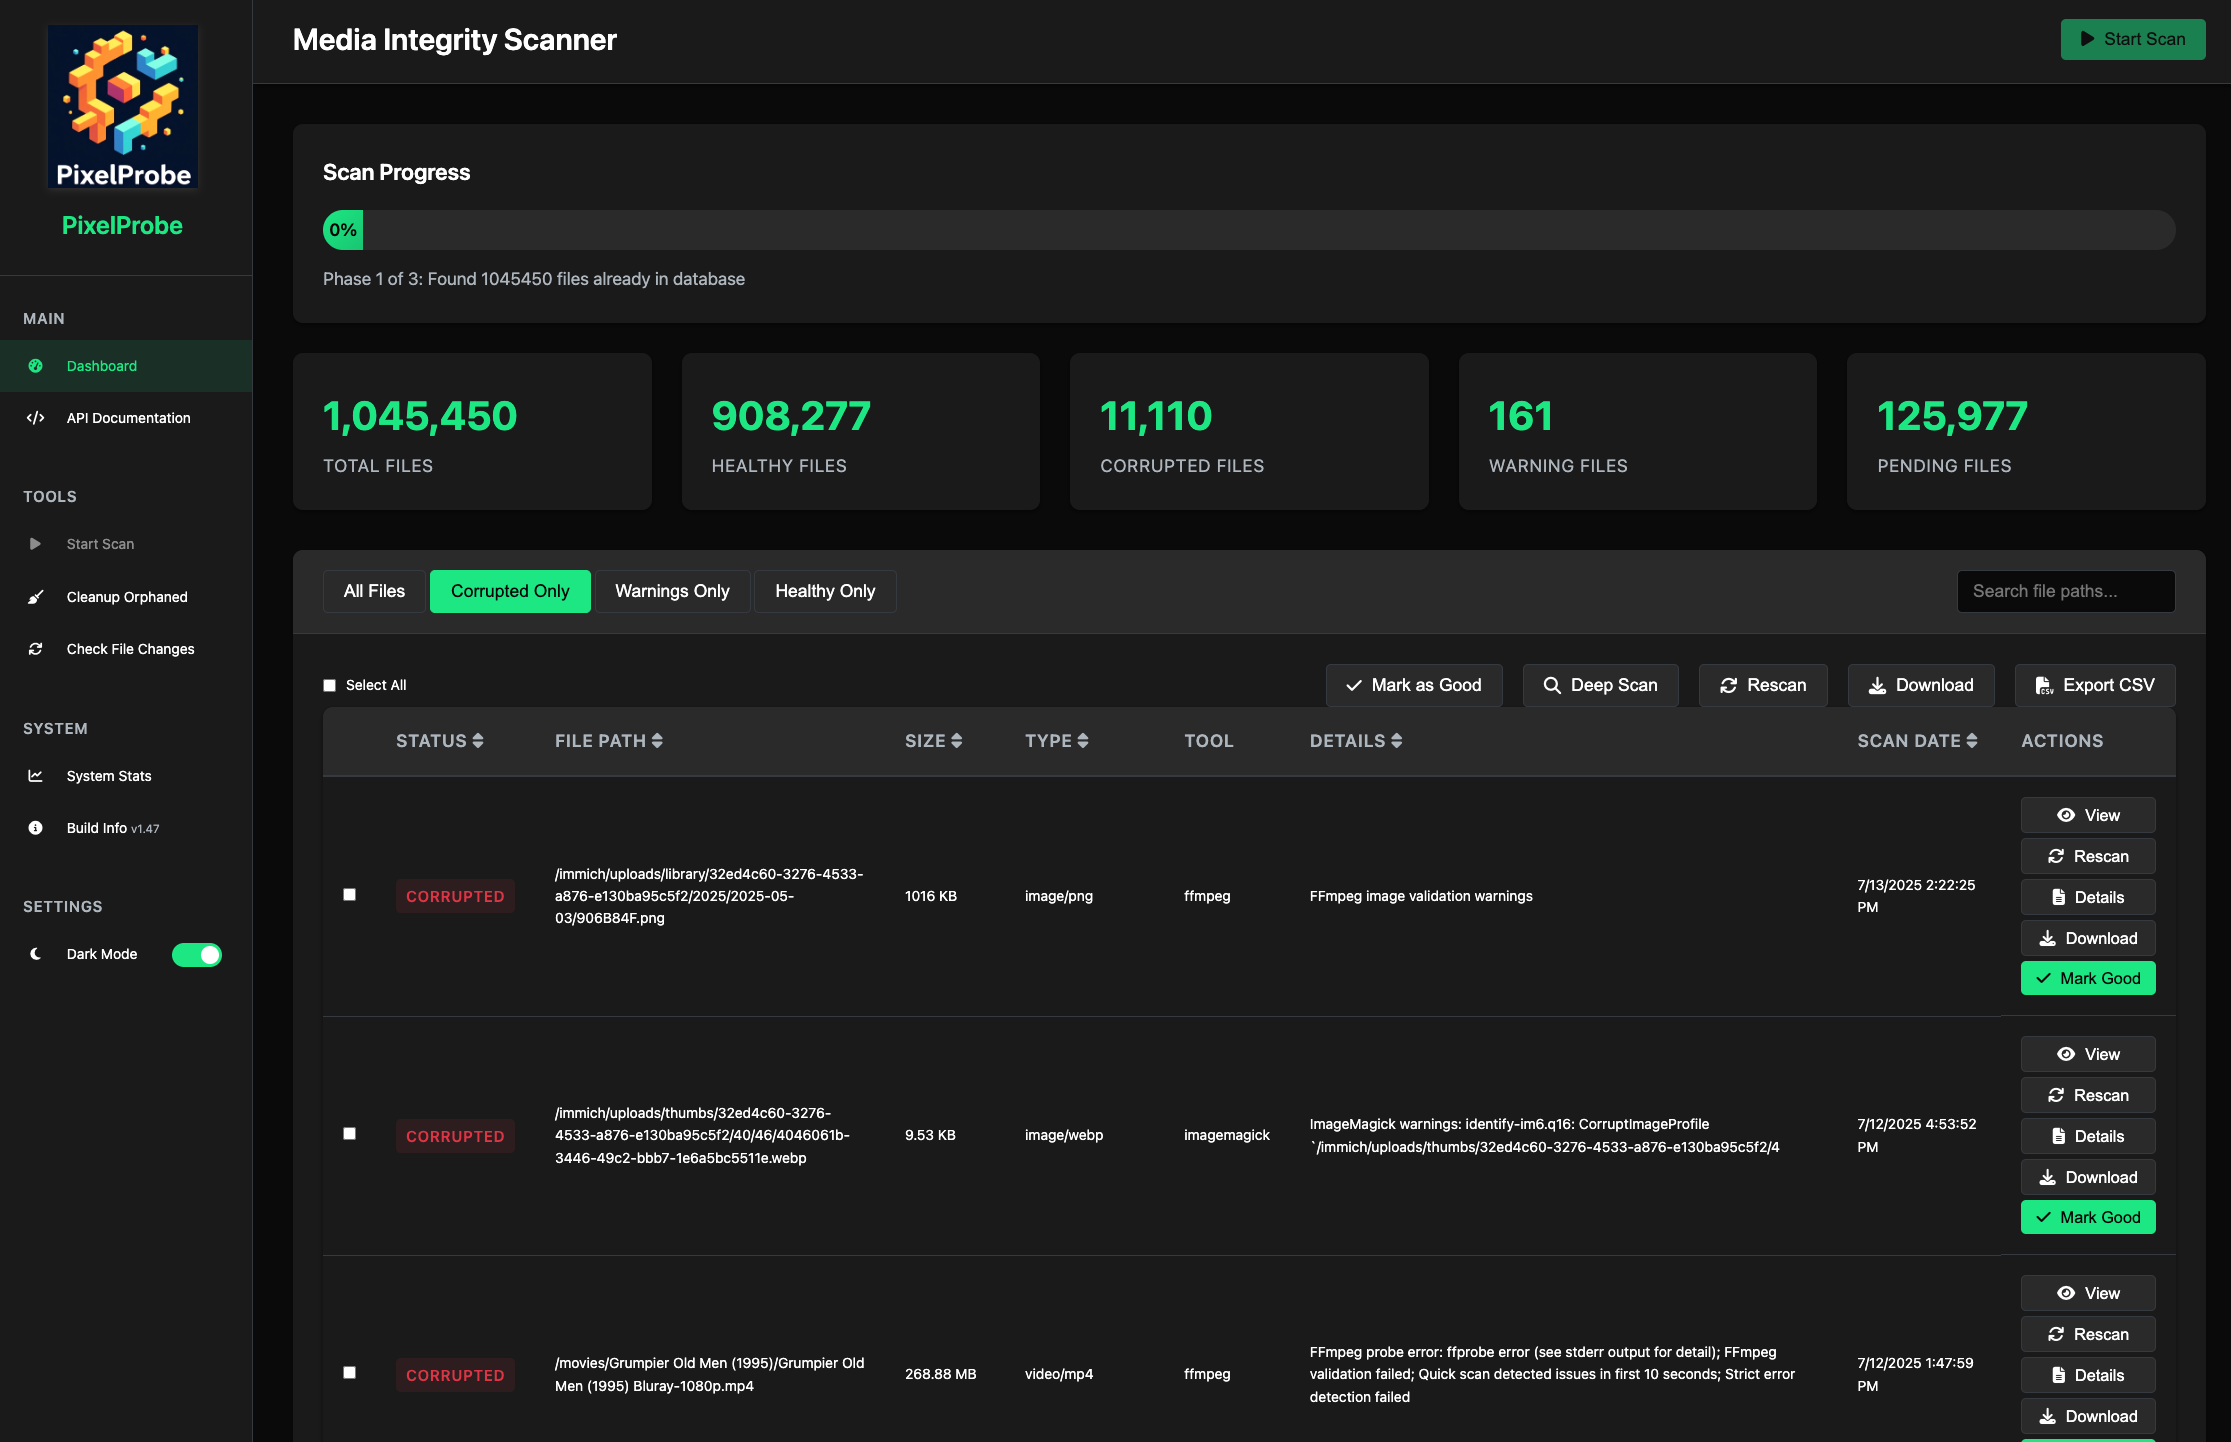
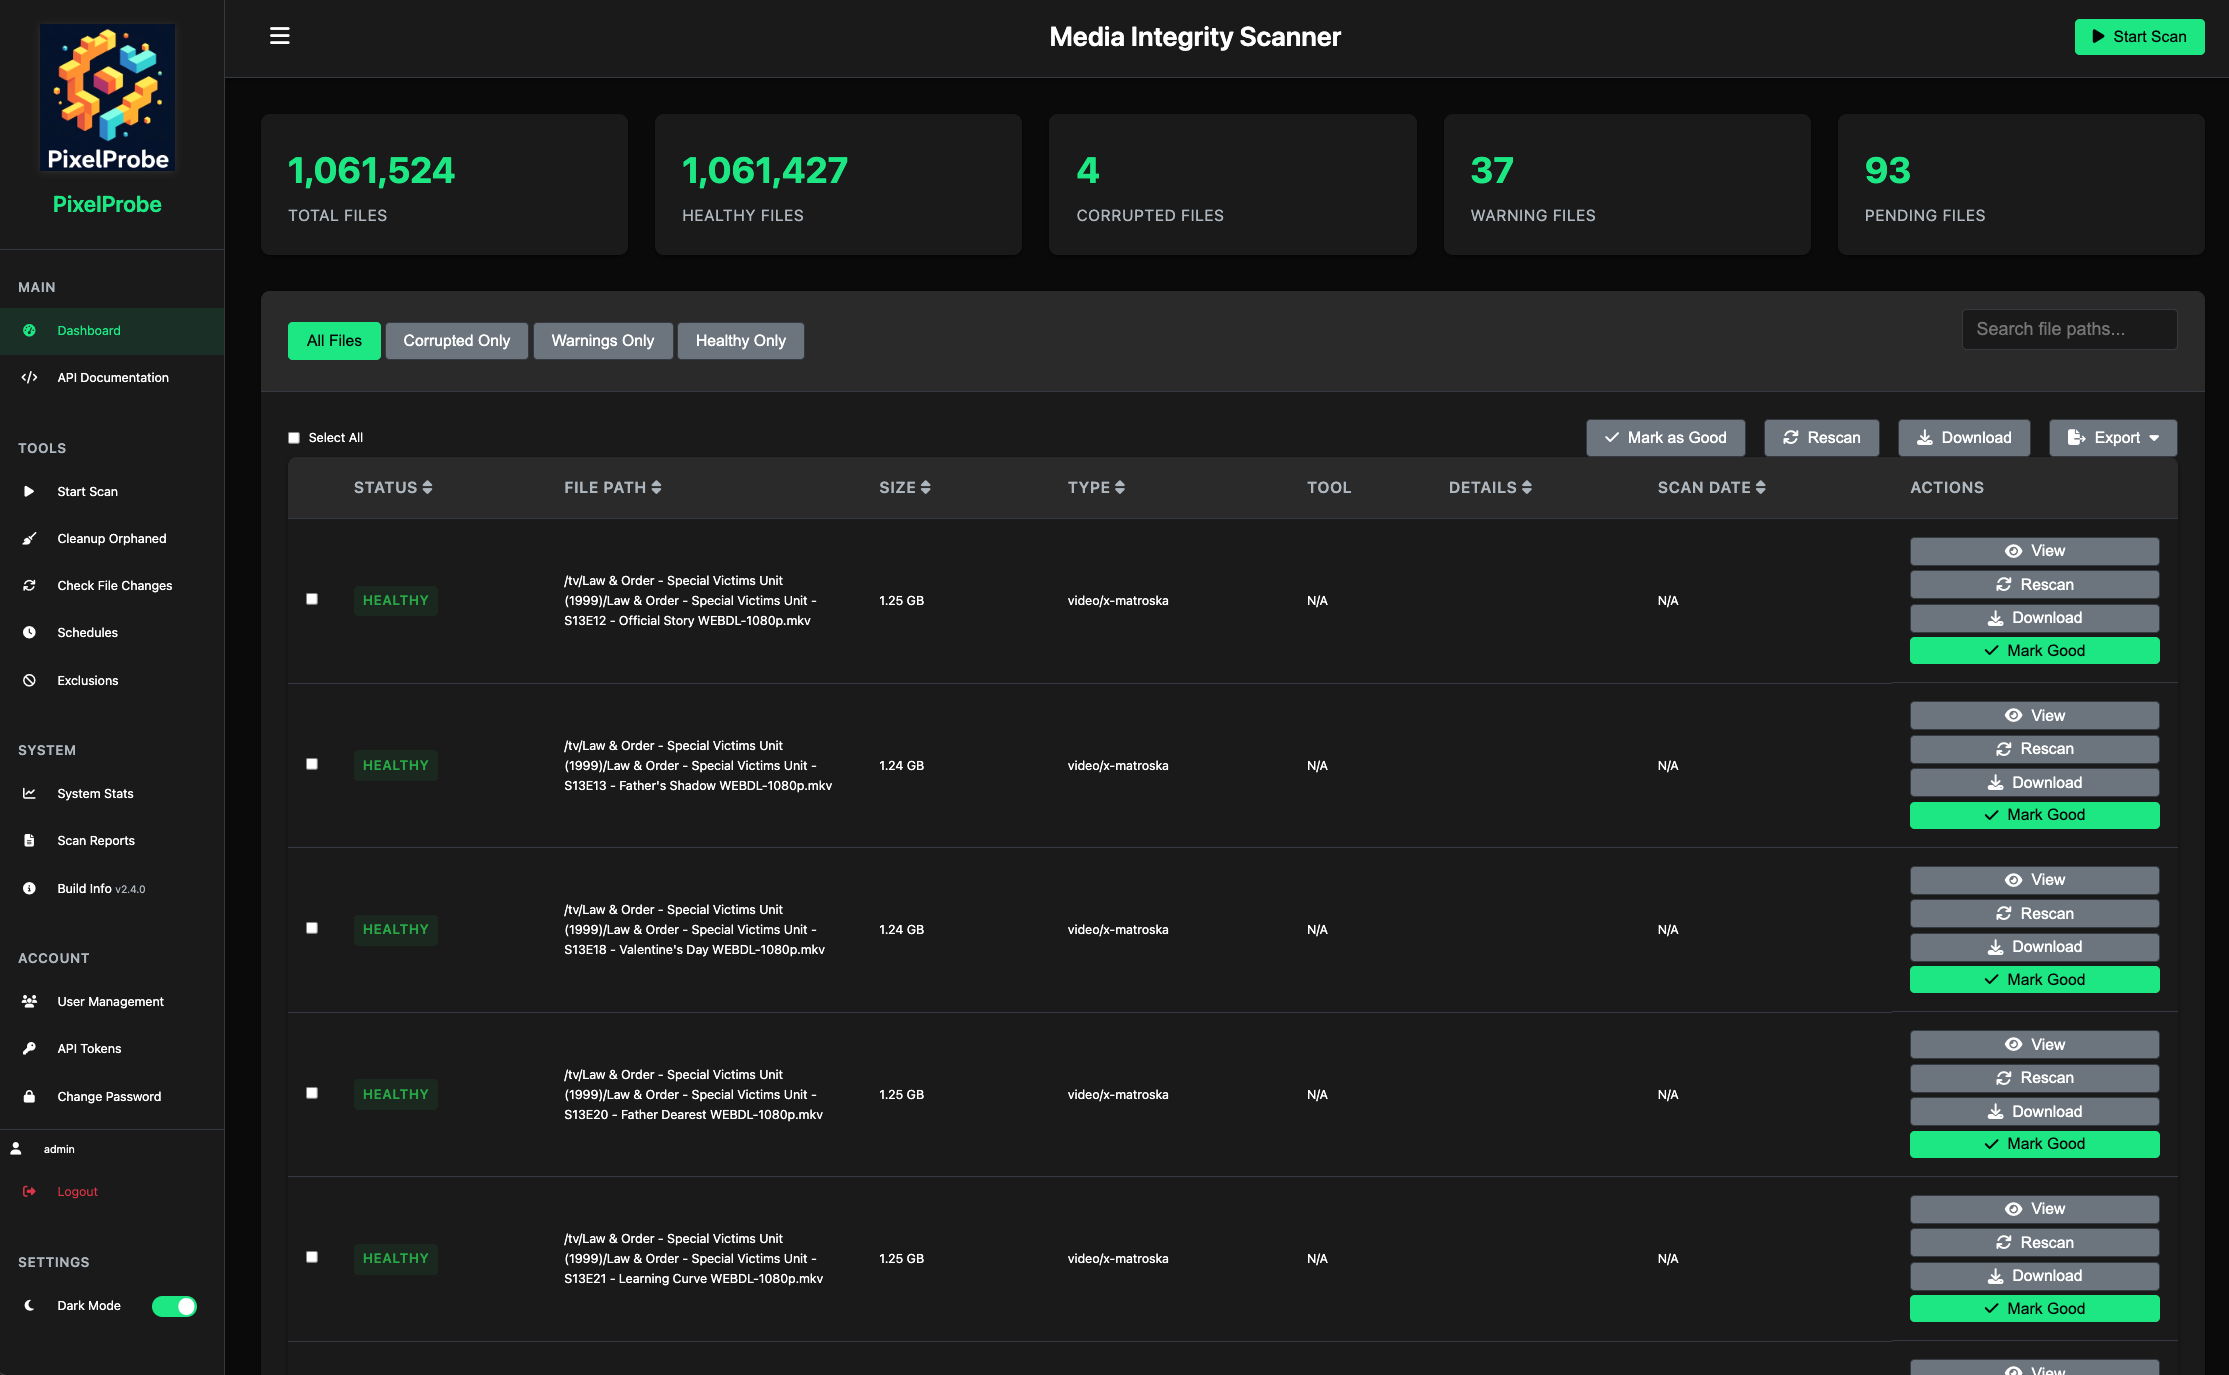
Update desktop interface screenshots with v2.4.0 UI showing authentication features

diff --git a/README.md b/README.md
@@ -133,21 +133,26 @@ Secure password changes:
 #### Light Mode
 ![Desktop Light Mode](docs/screenshots/desktop-light.png)
 
-The modern desktop interface features:
-- Modern design with clean, professional aesthetics
-- Sidebar navigation for easy access to all features
-- Real-time statistics dashboard showing file health status
-- Advanced filtering and search capabilities
-- Bulk action support for managing multiple files
+The modern light mode interface features:
+- Clean, professional design with over 1 million files scanned
+- Real-time statistics showing total, healthy, corrupted, warning and pending files
+- Intuitive sidebar navigation with authentication features
+- Advanced filtering by status (All Files, Corrupted Only, Warnings Only, Healthy Only)
+- Bulk actions with mark, rescan, download and export capabilities
+- User management and API token access in the account section
+- Dark mode toggle in settings
 
 #### Dark Mode
 ![Desktop Dark Mode](docs/screenshots/desktop-dark.png)
 
-PixelProbe includes a sophisticated dark mode:
-- High contrast design optimized for low-light environments
-- Consistent color scheme across all UI elements
-- Smooth theme transitions
-- Automatic theme persistence
+The sophisticated dark mode interface provides:
+- High contrast design perfect for extended monitoring sessions
+- Green accent colors for excellent visibility
+- Complete feature parity with light mode
+- Account section with user management and password controls
+- System stats and scan reports readily accessible
+- Build info display (v2.4.0) showing current version
+- Seamless theme switching that persists across sessions
 
 ### Mobile Interface
 
